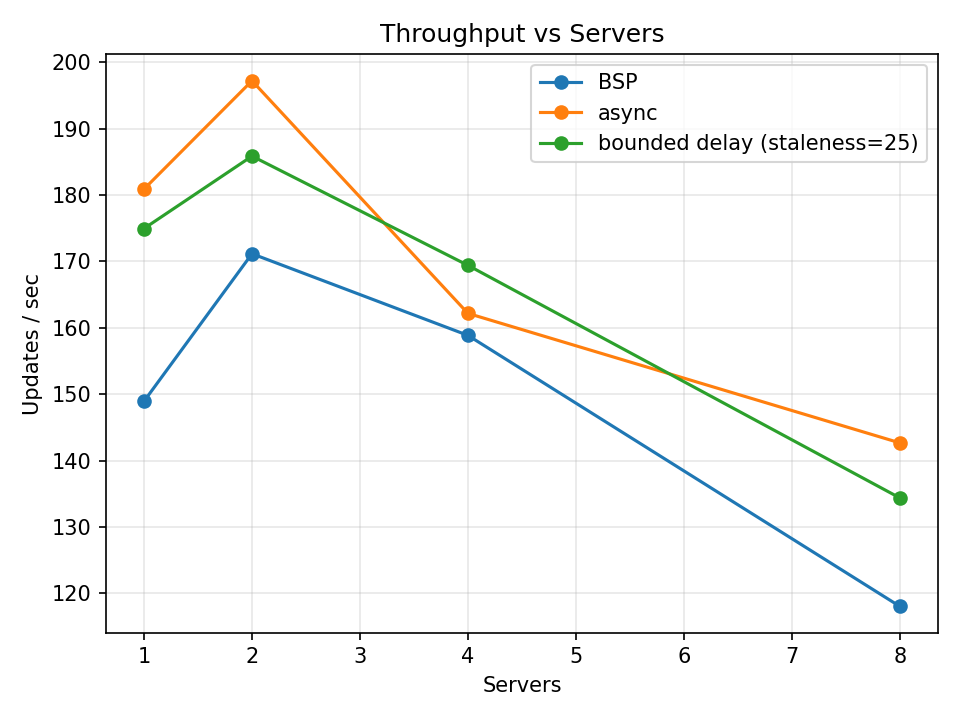
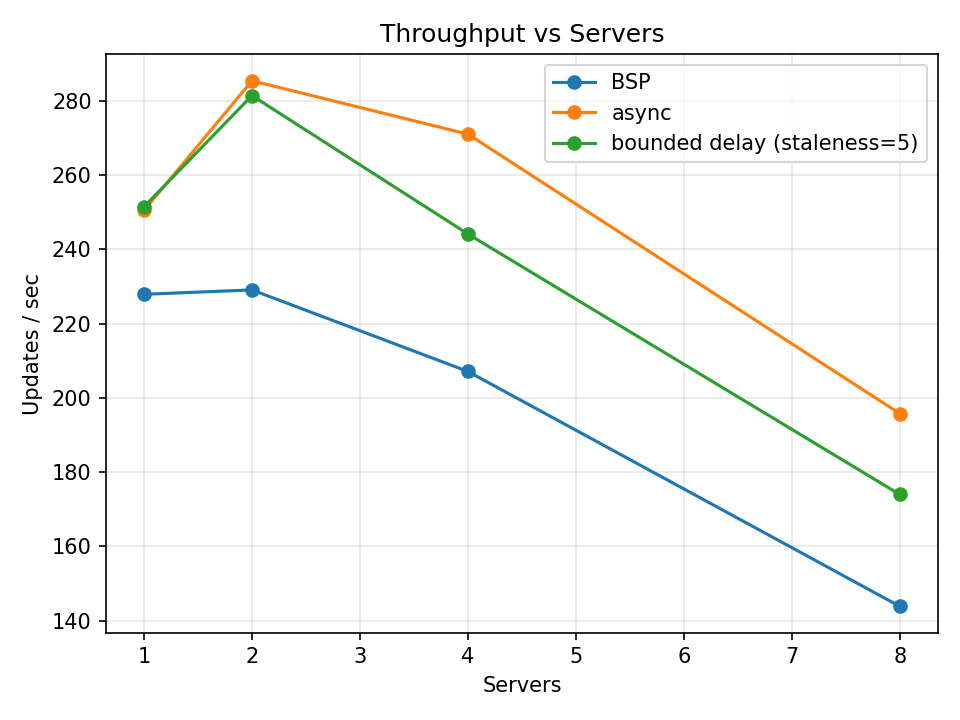
updated some graphs with more iterations for accuracy

diff --git a/src/accuracy_delay_sweep.py b/src/accuracy_delay_sweep.py
@@ -473,7 +473,7 @@ def main() -> None:
                 f"Throughput (B={spr} local steps / worker / round; s⁻¹)"
             )
         ax.set_title(
-            "Training throughput vs staleness (ref: BSP & async = 1 step/round; "
+            "Training throughput vs staleness"
             f"bounded delay uses B from --steps-per-round, default 1)"
         )
     else:

diff --git a/src/plot_wallclock_updates_accuracy.py b/src/plot_wallclock_updates_accuracy.py
@@ -45,7 +45,7 @@ FIXED_REPLICA_WORKERS = 6
 FIXED_REPLICA_SERVERS = 4
 NUM_RING_REPLICAS = 2
 
-STEPS_PER_WORKER = 30
+STEPS_PER_WORKER = 100
 ACCURACY_TRAIN_STEPS = 100
 ACCURACY_EVAL_EVERY = 10
 
